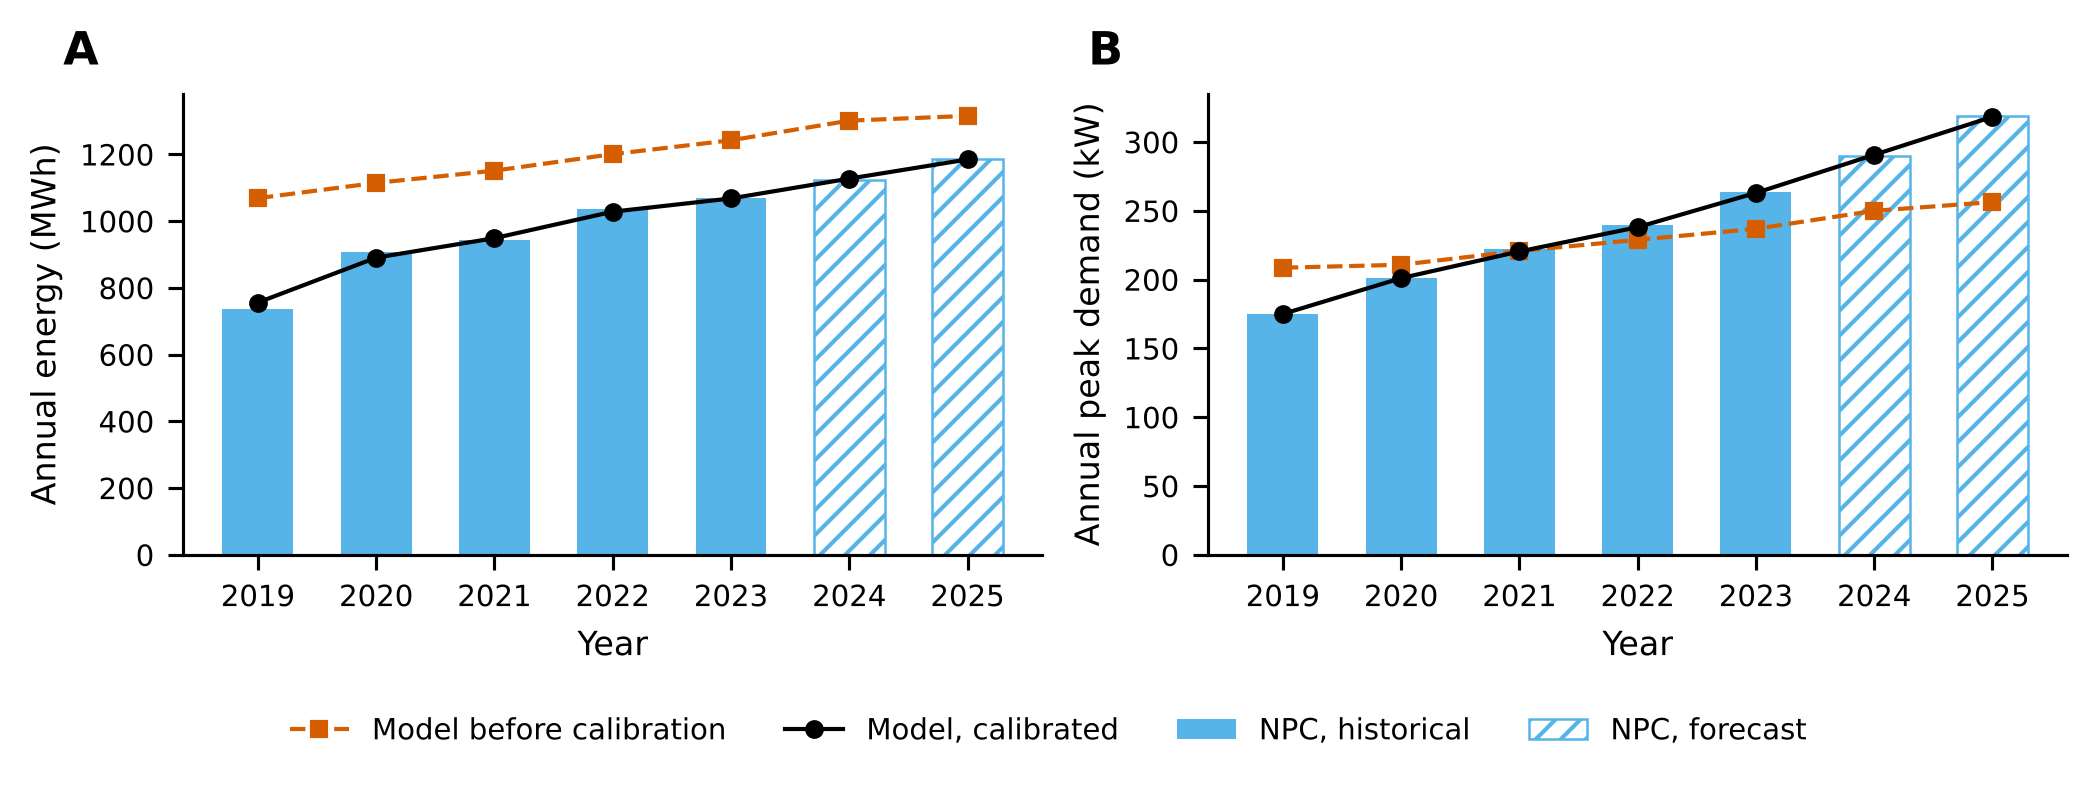
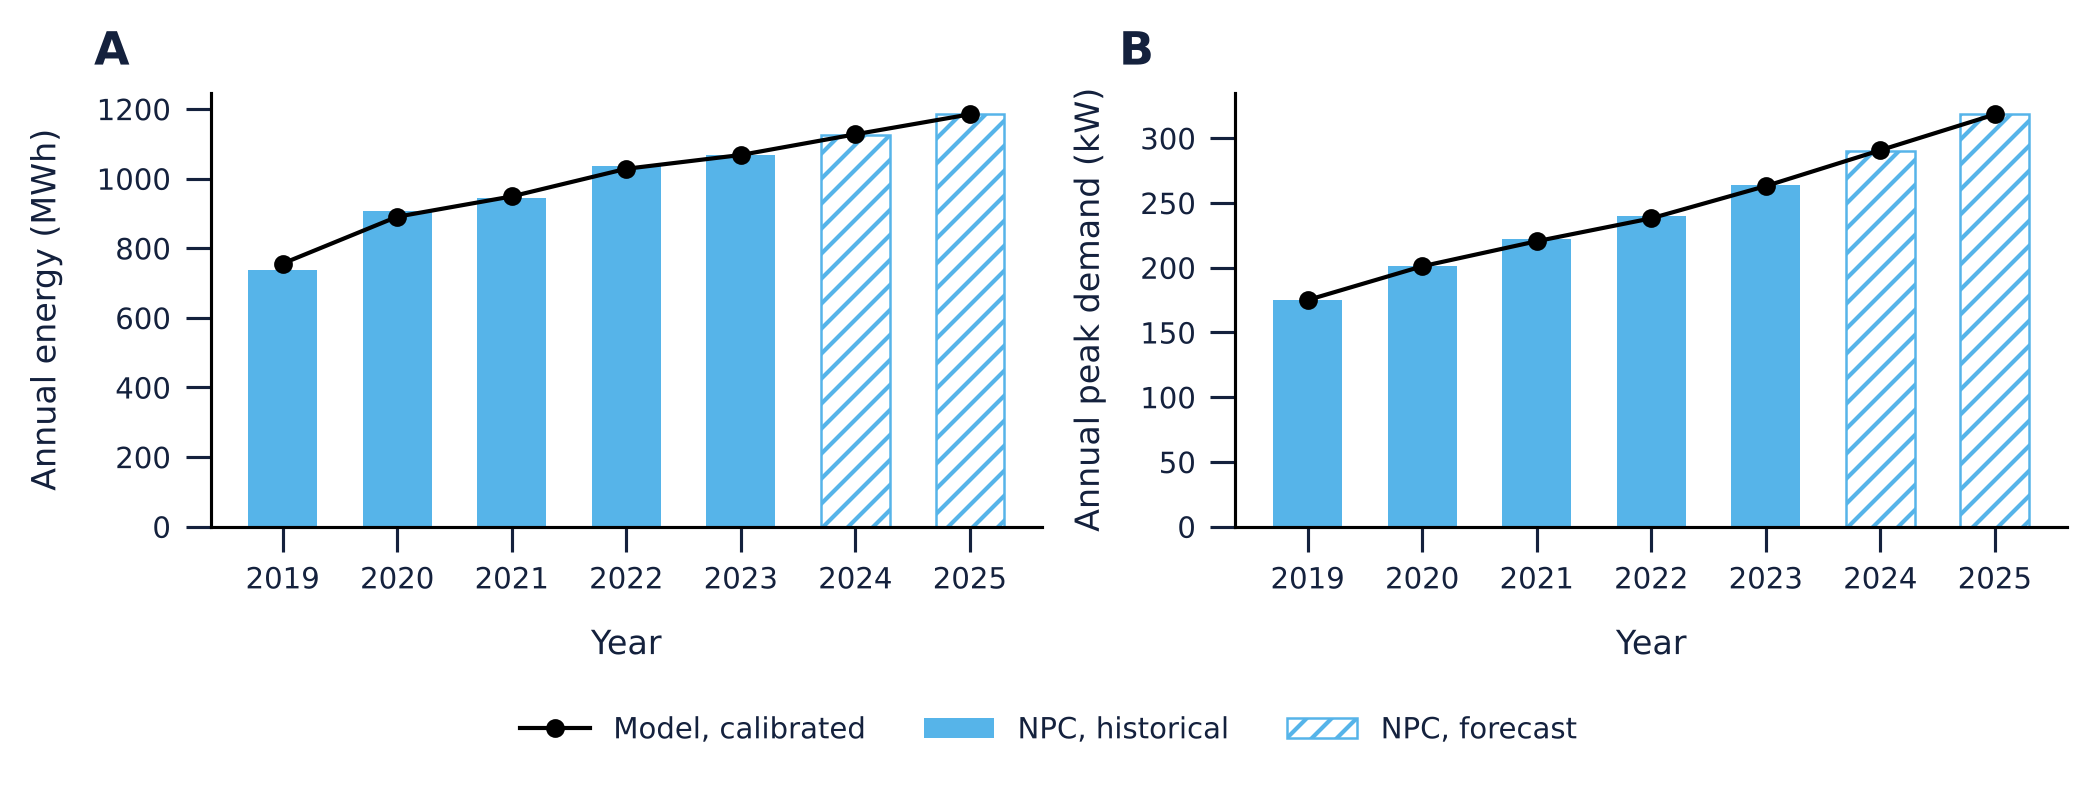
Figures: slides.py is the single source of deck figures; drop superseded deck.py, deck_full.py and figures/deck; reproducible PDFs

diff --git a/aurora/plotting/slides.py b/aurora/plotting/slides.py
@@ -68,7 +68,7 @@ def _fig(size, **kw):
 def _save(fig, name):
     OUT.mkdir(parents=True, exist_ok=True)
     for ext in ("png", "pdf"):
-        fig.savefig(OUT / f"{name}.{ext}", facecolor="white")
+        fig.savefig(OUT / f"{name}.{ext}", facecolor="white", metadata={"CreationDate": None} if ext == "pdf" else None)
     import matplotlib.pyplot as plt
     plt.close(fig)
 

diff --git a/aurora/plotting/calibration.py b/aurora/plotting/calibration.py
@@ -9,7 +9,6 @@ Writes figures/load_calibration_npc.pdf|png.
 from __future__ import annotations
 
 import sys
-from pathlib import Path
 
 import numpy as np
 import pandas as pd

diff --git a/docs/model_v2.md b/docs/model_v2.md
@@ -26,7 +26,7 @@ pip install -e ".[dev]"
 python -m aurora.experiments.phase4b run --stage A --workers 8   # sweep on 3 storms + INL-size storms
 python -m aurora.experiments.phase4b run --stage B --workers 8   # chosen size: storms, 2 years, stress, forecast value
 python -m aurora.experiments.phase4b tables                      # results/phase4b/tables.md, impact.json
-python -c "from aurora.plotting import deck; deck.impact_v2()"   # figures/deck/impact_v2_two_outcomes.png
+python -m aurora.plotting.slides impact                  # figures/slides/impact.png
 ```
 
 Both stages resume where they stopped. Phase 4 (model v1) results stay in `results/phase4/` unchanged.
